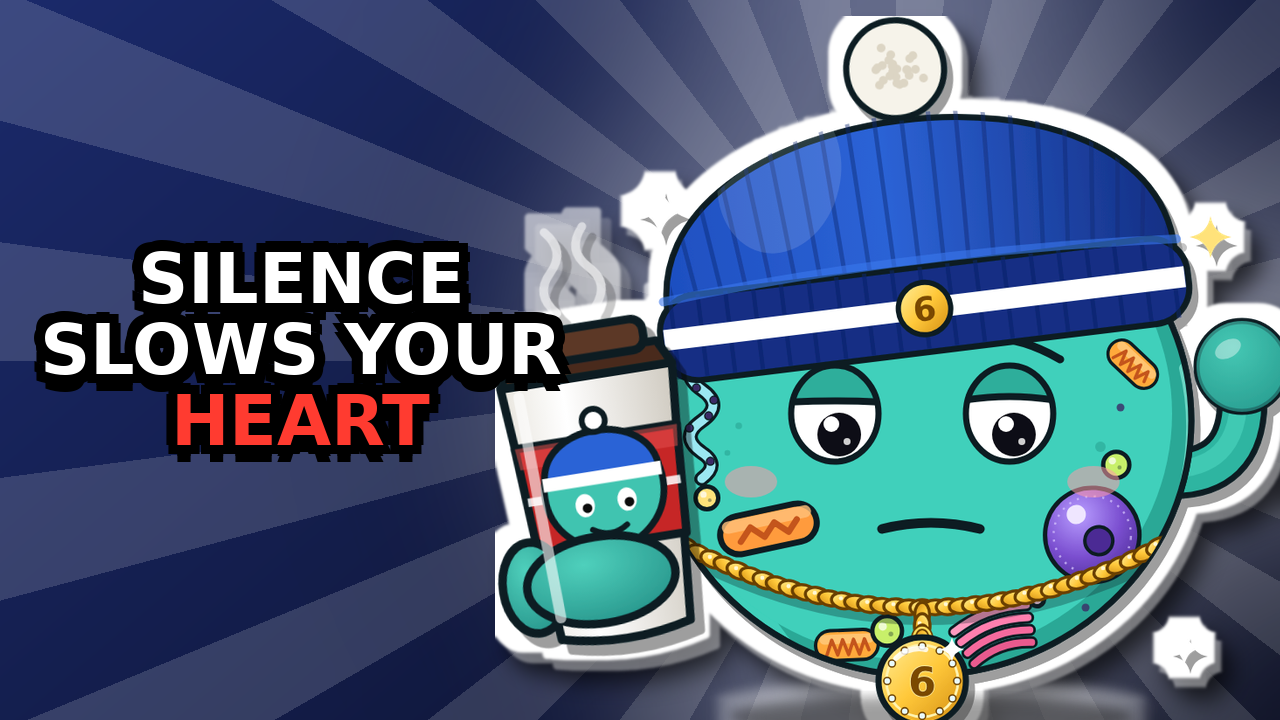
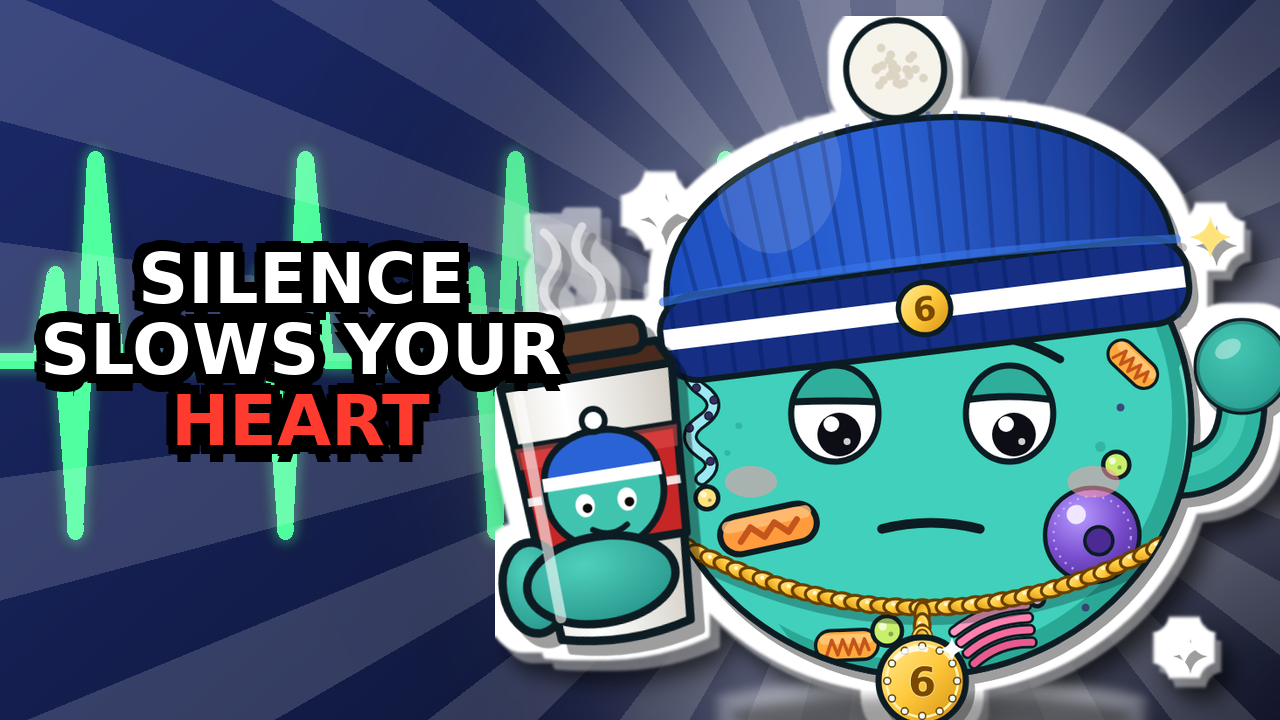
Thumbnails: topic-specific backgrounds (--scene ecg/clock/snow/toronto/stars, --bg-image)
Claude-Session: https://claude.ai/code/session_01YLZ2csSozvptdvtP7YVaK8

diff --git a/studio/branding/rebrand-v2/make_thumb.py b/studio/branding/rebrand-v2/make_thumb.py
@@ -20,12 +20,50 @@ def cyto_png(expr,fit):
 def main():
     a=argparse.ArgumentParser(); a.add_argument("out"); a.add_argument("--lines",required=True); a.add_argument("--colors",default="w,w,y")
     a.add_argument("--expr",default="shock"); a.add_argument("--bg",default="#ff3b30,#6a00ff"); a.add_argument("--side",default="right")
-    a.add_argument("--fit",default="none"); a.add_argument("--arrow",action="store_true"); a.add_argument("--object"); a=a.parse_args()
+    a.add_argument("--fit",default="none"); a.add_argument("--arrow",action="store_true"); a.add_argument("--object"); a.add_argument("--scene",default=""); a.add_argument("--bg-image",dest="bgimg"); a=a.parse_args()
     c1,c2=[hexc(x) for x in a.bg.split(",")]
     bg=Image.new("RGB",(W,H)); px=bg.load()
     for y in range(H):
         for x in range(0,W):
             t=(x/W*0.6+y/H*0.4); px[x,y]=tuple(int(c1[i]*(1-t)+c2[i]*t) for i in range(3))
+    bg=bg.convert('RGBA')
+
+    # TOPIC BACKGROUND: --scene (ecg|snow|clock|toronto|stars) or --bg-image photo (cover-cropped, saturated, tinted)
+    if a.bgimg:
+        from PIL import ImageEnhance
+        ph=Image.open(a.bgimg).convert("RGB"); r=max(W/ph.width,H/ph.height); ph=ph.resize((int(ph.width*r)+1,int(ph.height*r)+1))
+        ph=ph.crop(((ph.width-W)//2,(ph.height-H)//2,(ph.width-W)//2+W,(ph.height-H)//2+H)); ph=ImageEnhance.Color(ph).enhance(1.6); ph=ImageEnhance.Contrast(ph).enhance(1.2)
+        tint=Image.new("RGB",(W,H),c1); bg=Image.blend(ph,tint,0.30).convert("RGBA")
+    sd=ImageDraw.Draw(bg)
+    if a.scene=="ecg":
+        pts=[];x=0
+        while x<W:
+            if x<W*0.55: pts+= [(x,H*0.5),(x+40,H*0.5),(x+55,H*0.38),(x+75,H*0.74),(x+95,H*0.22),(x+115,H*0.5),(x+170,H*0.5)]; x+=210
+            else: pts+=[(x,H*0.5)]; x+=W  # flatline
+        pts.append((W,H*0.5))
+        for wd,al in ((34,70),(16,255)): 
+            lay=Image.new("RGBA",(W,H),(0,0,0,0)); ImageDraw.Draw(lay).line(pts,fill=(80,255,160,al),width=wd,joint="curve"); bg=Image.alpha_composite(bg,lay.filter(ImageFilter.GaussianBlur(6 if wd>20 else 0)))
+    elif a.scene=="snow":
+        import random; rr=random.Random(5)
+        for _ in range(160): x,y,r_=rr.random()*W,rr.random()*H,rr.choice([3,4,6,9]); sd.ellipse([x-r_,y-r_,x+r_,y+r_],fill=(255,255,255,rr.choice([150,210,255])))
+    elif a.scene=="stars":
+        import random; rr=random.Random(7)
+        for _ in range(120): x,y,r_=rr.random()*W,rr.random()*H,rr.choice([2,3,5]); sd.ellipse([x-r_,y-r_,x+r_,y+r_],fill=(255,255,255,230))
+    elif a.scene=="clock":
+        cx0,cy0,R=W*0.28,H*0.52,300
+        sd.ellipse([cx0-R,cy0-R,cx0+R,cy0+R],outline=(255,255,255,200),width=22,fill=(255,255,255,40))
+        for k in range(12): ang=k*math.pi/6; sd.line([(cx0+(R-30)*math.sin(ang),cy0-(R-30)*math.cos(ang)),(cx0+(R-70)*math.sin(ang),cy0-(R-70)*math.cos(ang))],fill=(255,255,255,230),width=14)
+        sd.line([(cx0,cy0),(cx0+150*math.sin(2.6),cy0-150*math.cos(2.6))],fill=(255,255,255,255),width=22); sd.line([(cx0,cy0),(cx0+220*math.sin(0.4),cy0-220*math.cos(0.4))],fill=(255,214,10,255),width=16)
+    elif a.scene=="toronto":
+        import random; rr=random.Random(11); x=0
+        x=0
+        while x<W:
+            bw=rr.randint(50,110); bh=rr.randint(140,380); sd.rectangle([x,H-bh,x+bw,H],fill=(8,14,40,255))
+            for wy in range(H-bh+14,H-10,26):
+                for wx in range(x+8,x+bw-10,20):
+                    if rr.random()<0.45: sd.rectangle([wx,wy,wx+8,wy+12],fill=(255,214,120,230))
+            x+=bw+rr.randint(0,10)
+        tx0=W*0.45; sd.rectangle([tx0-9,H*0.18,tx0+9,H],fill=(8,14,40,255)); sd.ellipse([tx0-38,H*0.40,tx0+38,H*0.46],fill=(8,14,40,255)); sd.polygon([(tx0-3,H*0.06),(tx0+3,H*0.06),(tx0+9,H*0.2),(tx0-9,H*0.2)],fill=(8,14,40,255))
     # light burst behind face
     fx=W*0.70 if a.side=="right" else W*0.30
     burst=Image.new("RGBA",(W,H),(0,0,0,0)); bd=ImageDraw.Draw(burst)

diff --git a/studio/THUMBNAIL_FORMAT_V2.md b/studio/THUMBNAIL_FORMAT_V2.md
@@ -1,10 +1,10 @@
 # Thumbnail format v2 — MrBeast style (Utsha, Nov 9, 2026). Replaces the old thumb.py structure.
-Tool: `python3 studio/branding/rebrand-v2/make_thumb.py out.png --lines "A|B|C" --colors "w,w,y" --expr shock --bg "#ff3b30,#6a00ff" [--arrow] [--object x.png] [--side left|right]`
+Tool: `python3 studio/branding/rebrand-v2/make_thumb.py out.png --lines "A|B|C" --colors "w,w,y" --expr shock --bg "#ff3b30,#6a00ff" --scene ecg [--arrow] [--object x.png] [--side left|right]`
 Output 1280x720 using the CANON v2 Cyto (never the old rig PNGs).
 1. ONE giant face: Cyto fills ~100% of the height on one side, cropped by the frame, thick white sticker outline + hard drop shadow.
 2. Expression sells the curiosity: `shock` (default, mouth open, wide eyes), `solemn` (serious/Remembrance), `chill` (canon default). Never a neutral face on a normal episode.
 3. Text: <= 4 words total, <= 3 lines, giant, white + ONE colour word (yellow/red), black stroke. A question or a shocking claim, not the title.
-4. Background: 2 saturated colours (red/purple, orange/blue, green/teal) + light burst behind the face. High contrast, no clutter, no photos, no tiny details.
+4. BACKGROUND = THE TOPIC (never a generic gradient): pick a scene that shows the subject, then 2 saturated colours + light burst. Built-in `--scene`: ecg (heart/silence/stress), clock (sleep/time/DST), snow (cold/winter/immune), toronto (city/sports/events), stars (night/quiet). Anything else: `--bg-image photo.jpg` (Unsplash free photo of the topic, auto cover-crop + saturation + colour tint; try the Unsplash tool's download_asset, or add a new scene function in make_thumb.py: e.g. a sugar cube, brain, bone, sun for vitamin D). High contrast, no clutter, no tiny details.
 5. One focal object or an arrow/circle pointing at the "thing" (optional). Max 3 elements: face, text, object.
 6. Test: shrink to 160px wide, it must still read. Make 2 options, say which is stronger. Use Studio "Test & Compare".
 7. Tone exceptions: Remembrance Day / grief / serious topics use `solemn` + navy palette; no shock face, no arrows.

diff --git a/studio/batch_prompts_ep14_v3.md b/studio/batch_prompts_ep14_v3.md
@@ -11,7 +11,7 @@ Build Ep 14 of Cyto The Cell: "What Two Minutes of Silence Does to Your Body" (S
 - Quiet follow prompt as a text chip (no voice, no jokes) around 40-60%, plus the end card; sources on screen at the end.
 - Length <= 34 s. Title unchanged (45 chars).
 
-3) THUMBNAILS = MrBeast format v2, SOLEMN variant: python3 studio/branding/rebrand-v2/make_thumb.py out.png --lines "..." --expr solemn --bg "#1b2a6b,#0b0f26". Two options already exist in studio/branding/rebrand-v2/assets/ (A "2 MINUTES OF SILENCE", B "SILENCE SLOWS YOUR HEART"); regenerate if the layout changes, pick the stronger, say why. No shock face or arrows on this episode.
+3) THUMBNAILS = MrBeast format v2, SOLEMN variant: python3 studio/branding/rebrand-v2/make_thumb.py out.png --lines "..." --expr solemn --bg "#1b2a6b,#0b0f26" --scene ecg (background must match the topic; A uses --scene stars). Two options already exist in studio/branding/rebrand-v2/assets/ (A "2 MINUTES OF SILENCE", B "SILENCE SLOWS YOUR HEART"); regenerate if the layout changes, pick the stronger, say why. No shock face or arrows on this episode.
 
 COST: ElevenLabs voice ~480-560 credits, ONE take, estimate_only first, say the number to Utsha before generating (voice "Cyto" MDpsT9lfiqWEMyN3A1bk, model eleven_v4, flow 9FCDlyMjCyXT9Z51HIp7); Scribe 0. Everything else $0.
 CHECKS: layout_check.py 0 FAIL; 1-fps frame check (Cyto on model, cup visible, something moving, captions readable on a phone); first-second check; mouth closed when silent; static-run check on the first 8 s; canon tests 19/19+.
